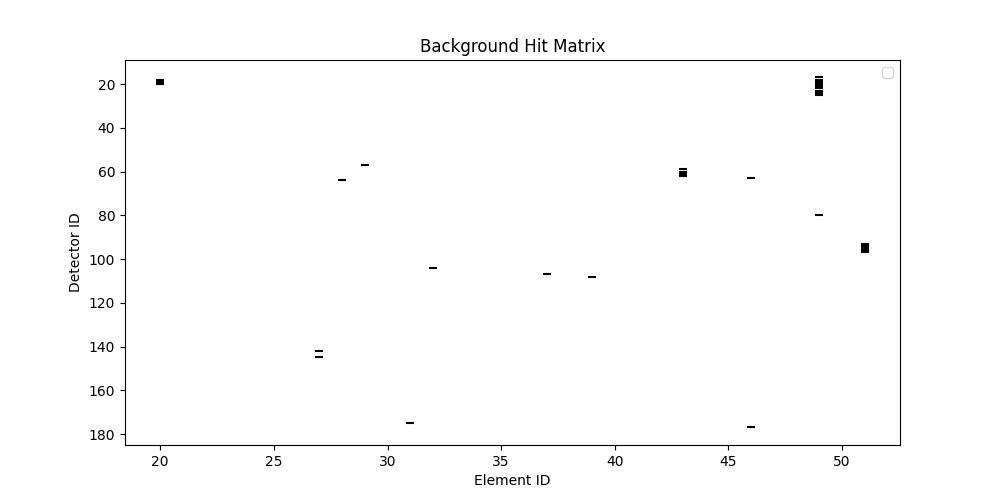
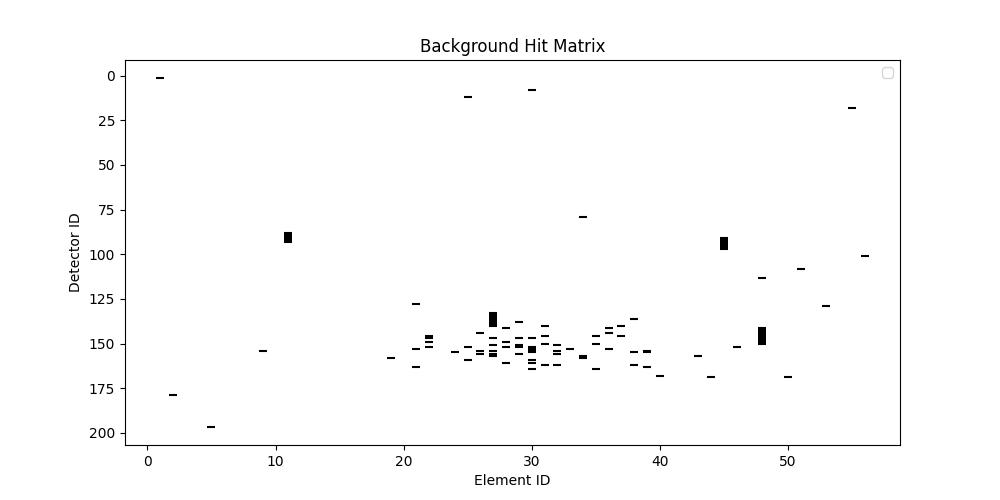
First Draft of Background simulation

diff --git a/Devin/Generate_Background.py b/Devin/Generate_Background.py
@@ -5,13 +5,15 @@ rows, cols = 201, 61
 
 matrix = np.zeros((rows, cols), dtype=int)
 
+# Parameters for outages, individual hits, and noise
 num_stacks = 5  
 max_stack_height = 10  
-num_random_hits = 10
+num_random_hits = 10 
+cluster_radius = 30 
+cluster_intensity = 75  # number of hits in cluster
 
 # Step 1: Add random vertical stacks
 for _ in range(num_stacks):
-
     col = np.random.randint(0, cols)
     
     start_row = np.random.randint(0, rows - max_stack_height + 1)
@@ -28,7 +30,20 @@ for row, col in zip(random_row_indices, random_col_indices):
     if matrix[row, col] == 0: 
         matrix[row, col] = 1
 
-# Step 3: Extract row and column indices of all the hits
+# Step 3: Add Gaussian circular cluster of hits (noise)
+center_row = np.random.randint(cluster_radius, rows - cluster_radius)
+center_col = np.random.randint(cluster_radius, cols - cluster_radius)
+
+for _ in range(cluster_intensity):
+    r = np.random.normal(0, cluster_radius / 3)  
+    theta = np.random.uniform(0, 2 * np.pi) 
+    hit_row = int(center_row + r * np.sin(theta))
+    hit_col = int(center_col + r * np.cos(theta))
+
+    if 0 <= hit_row < rows and 0 <= hit_col < cols:
+        matrix[hit_row, hit_col] = 1
+
+# Step 4: Extract row and column indices of all the hits
 row_indices, col_indices = np.nonzero(matrix)
 
 plt.figure(figsize=(10, 5))
@@ -38,6 +53,5 @@ plt.title(f'Background Hit Matrix')
 plt.xlabel('Element ID')
 plt.ylabel('Detector ID')
 plt.legend()
-# plt.grid(True)
 # plt.show()
 plt.savefig("Background_Noise_Example.jpeg")
